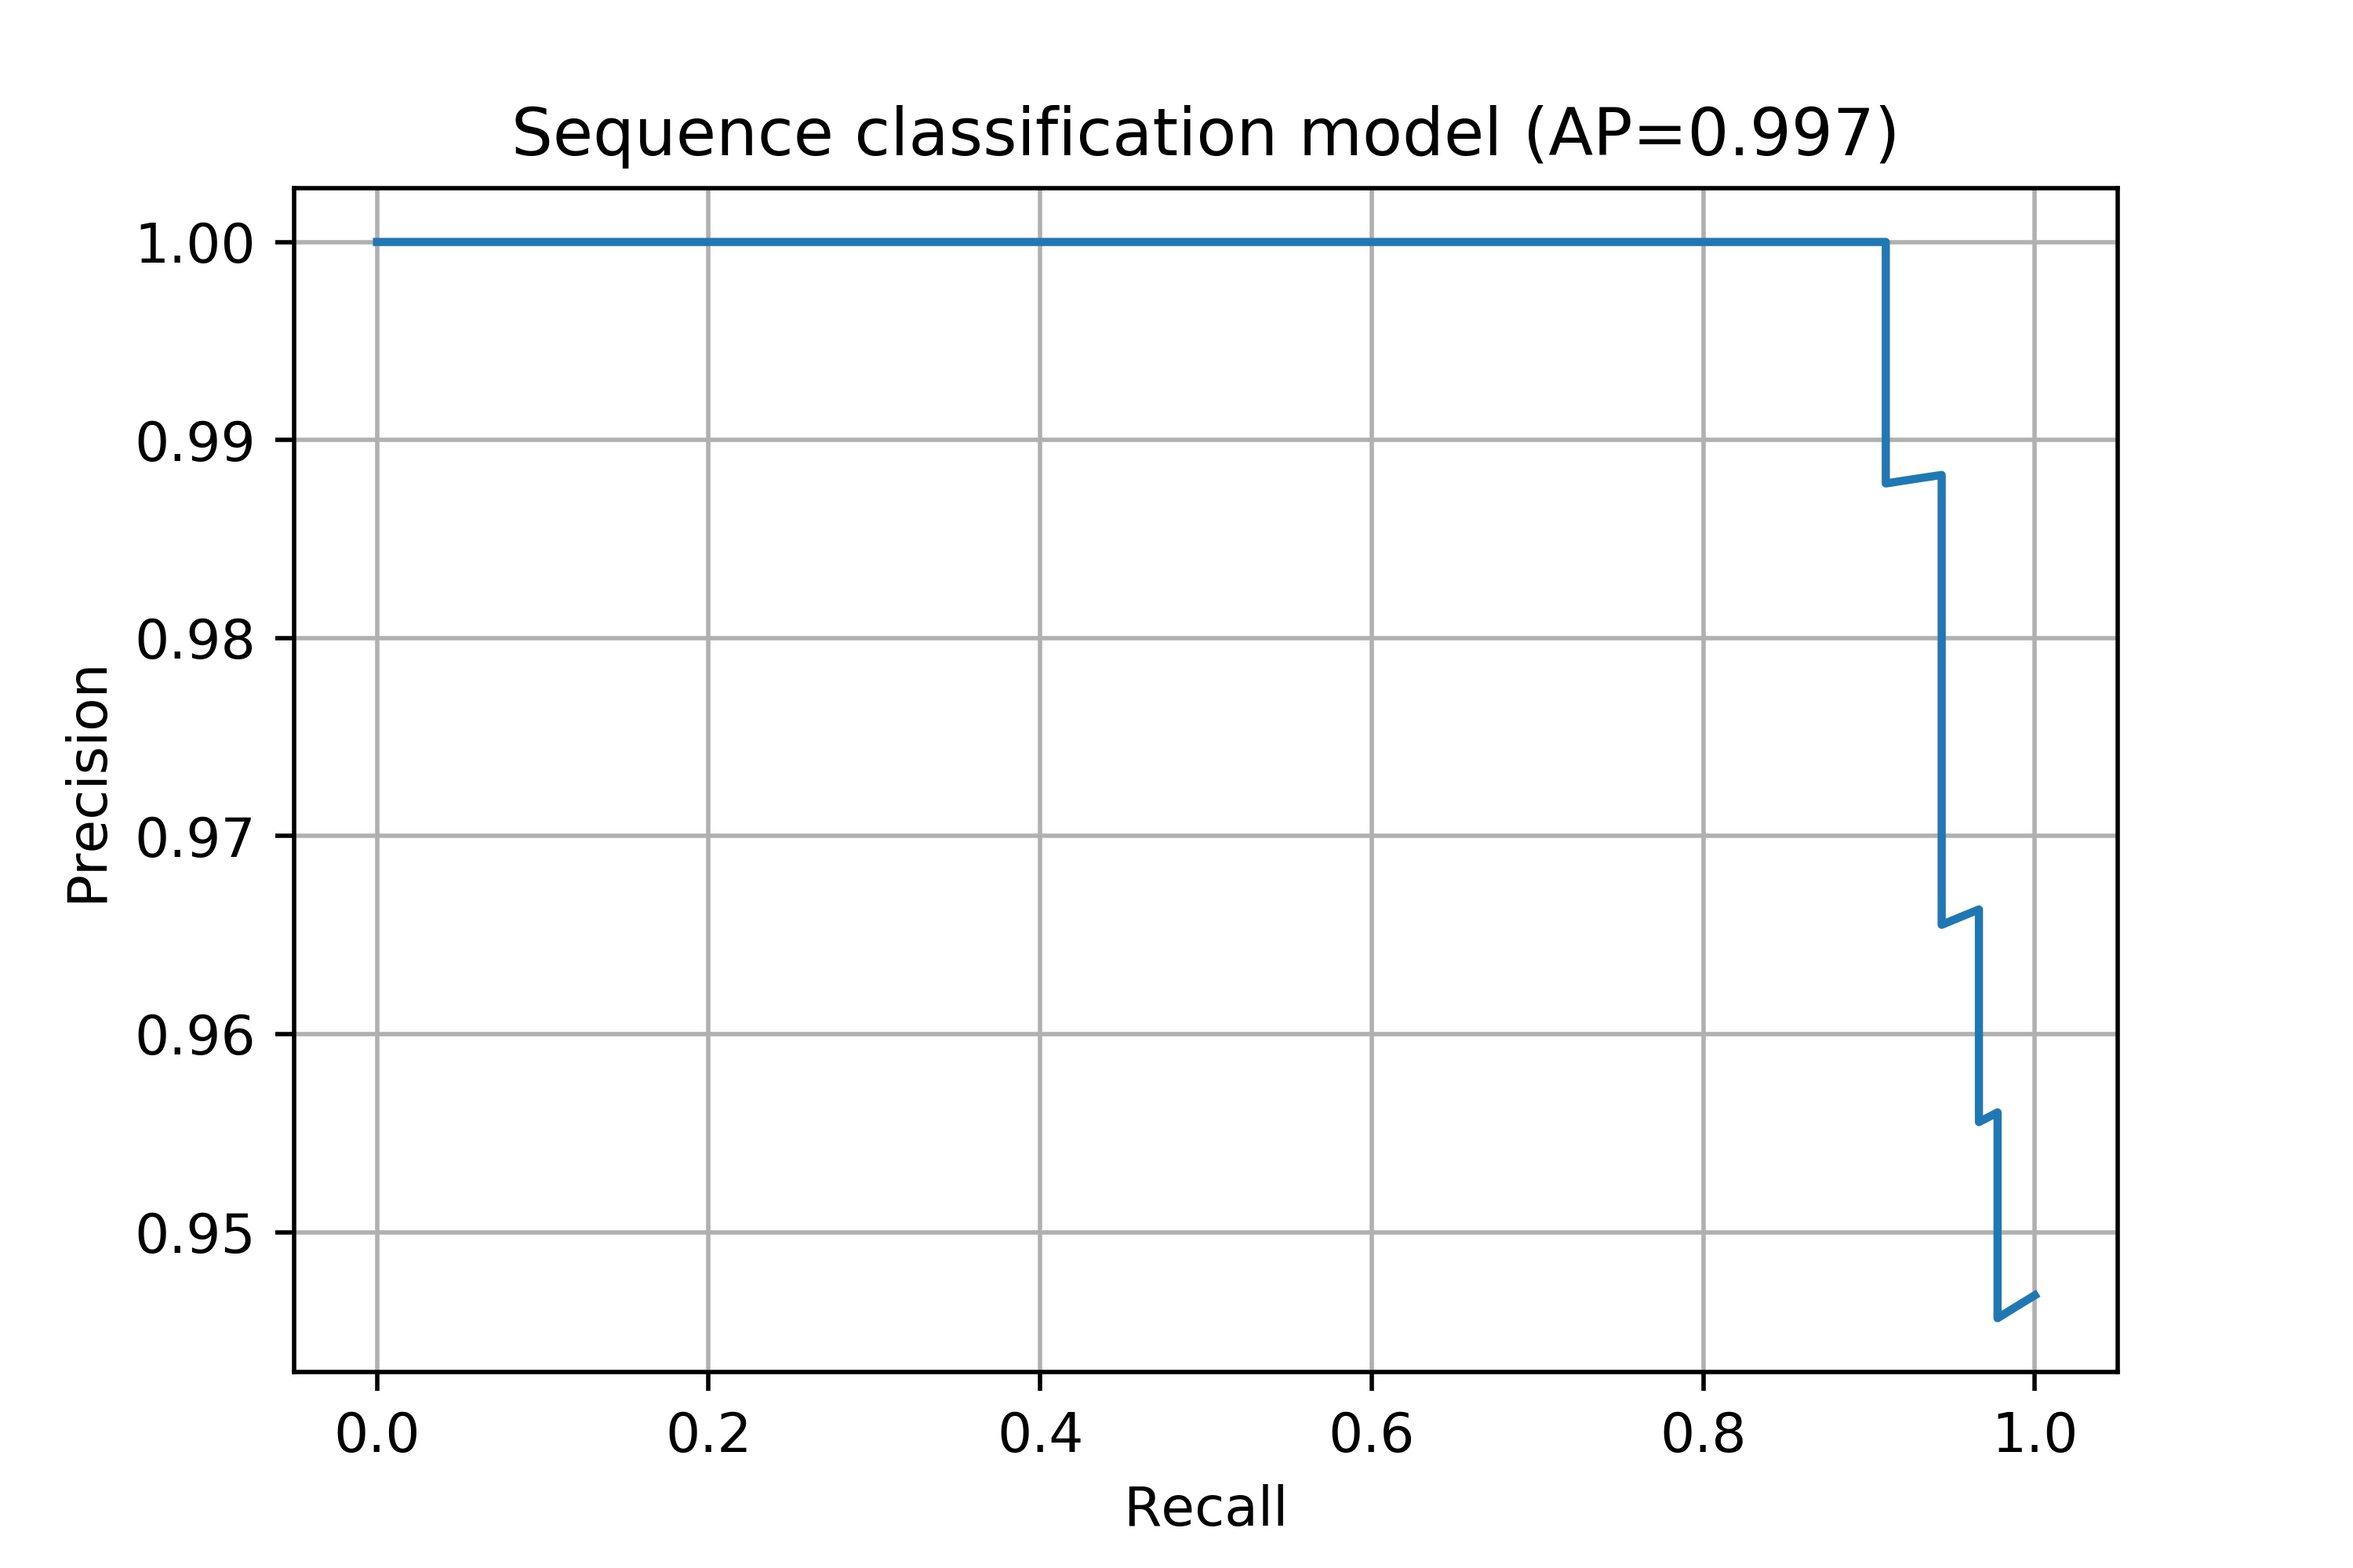
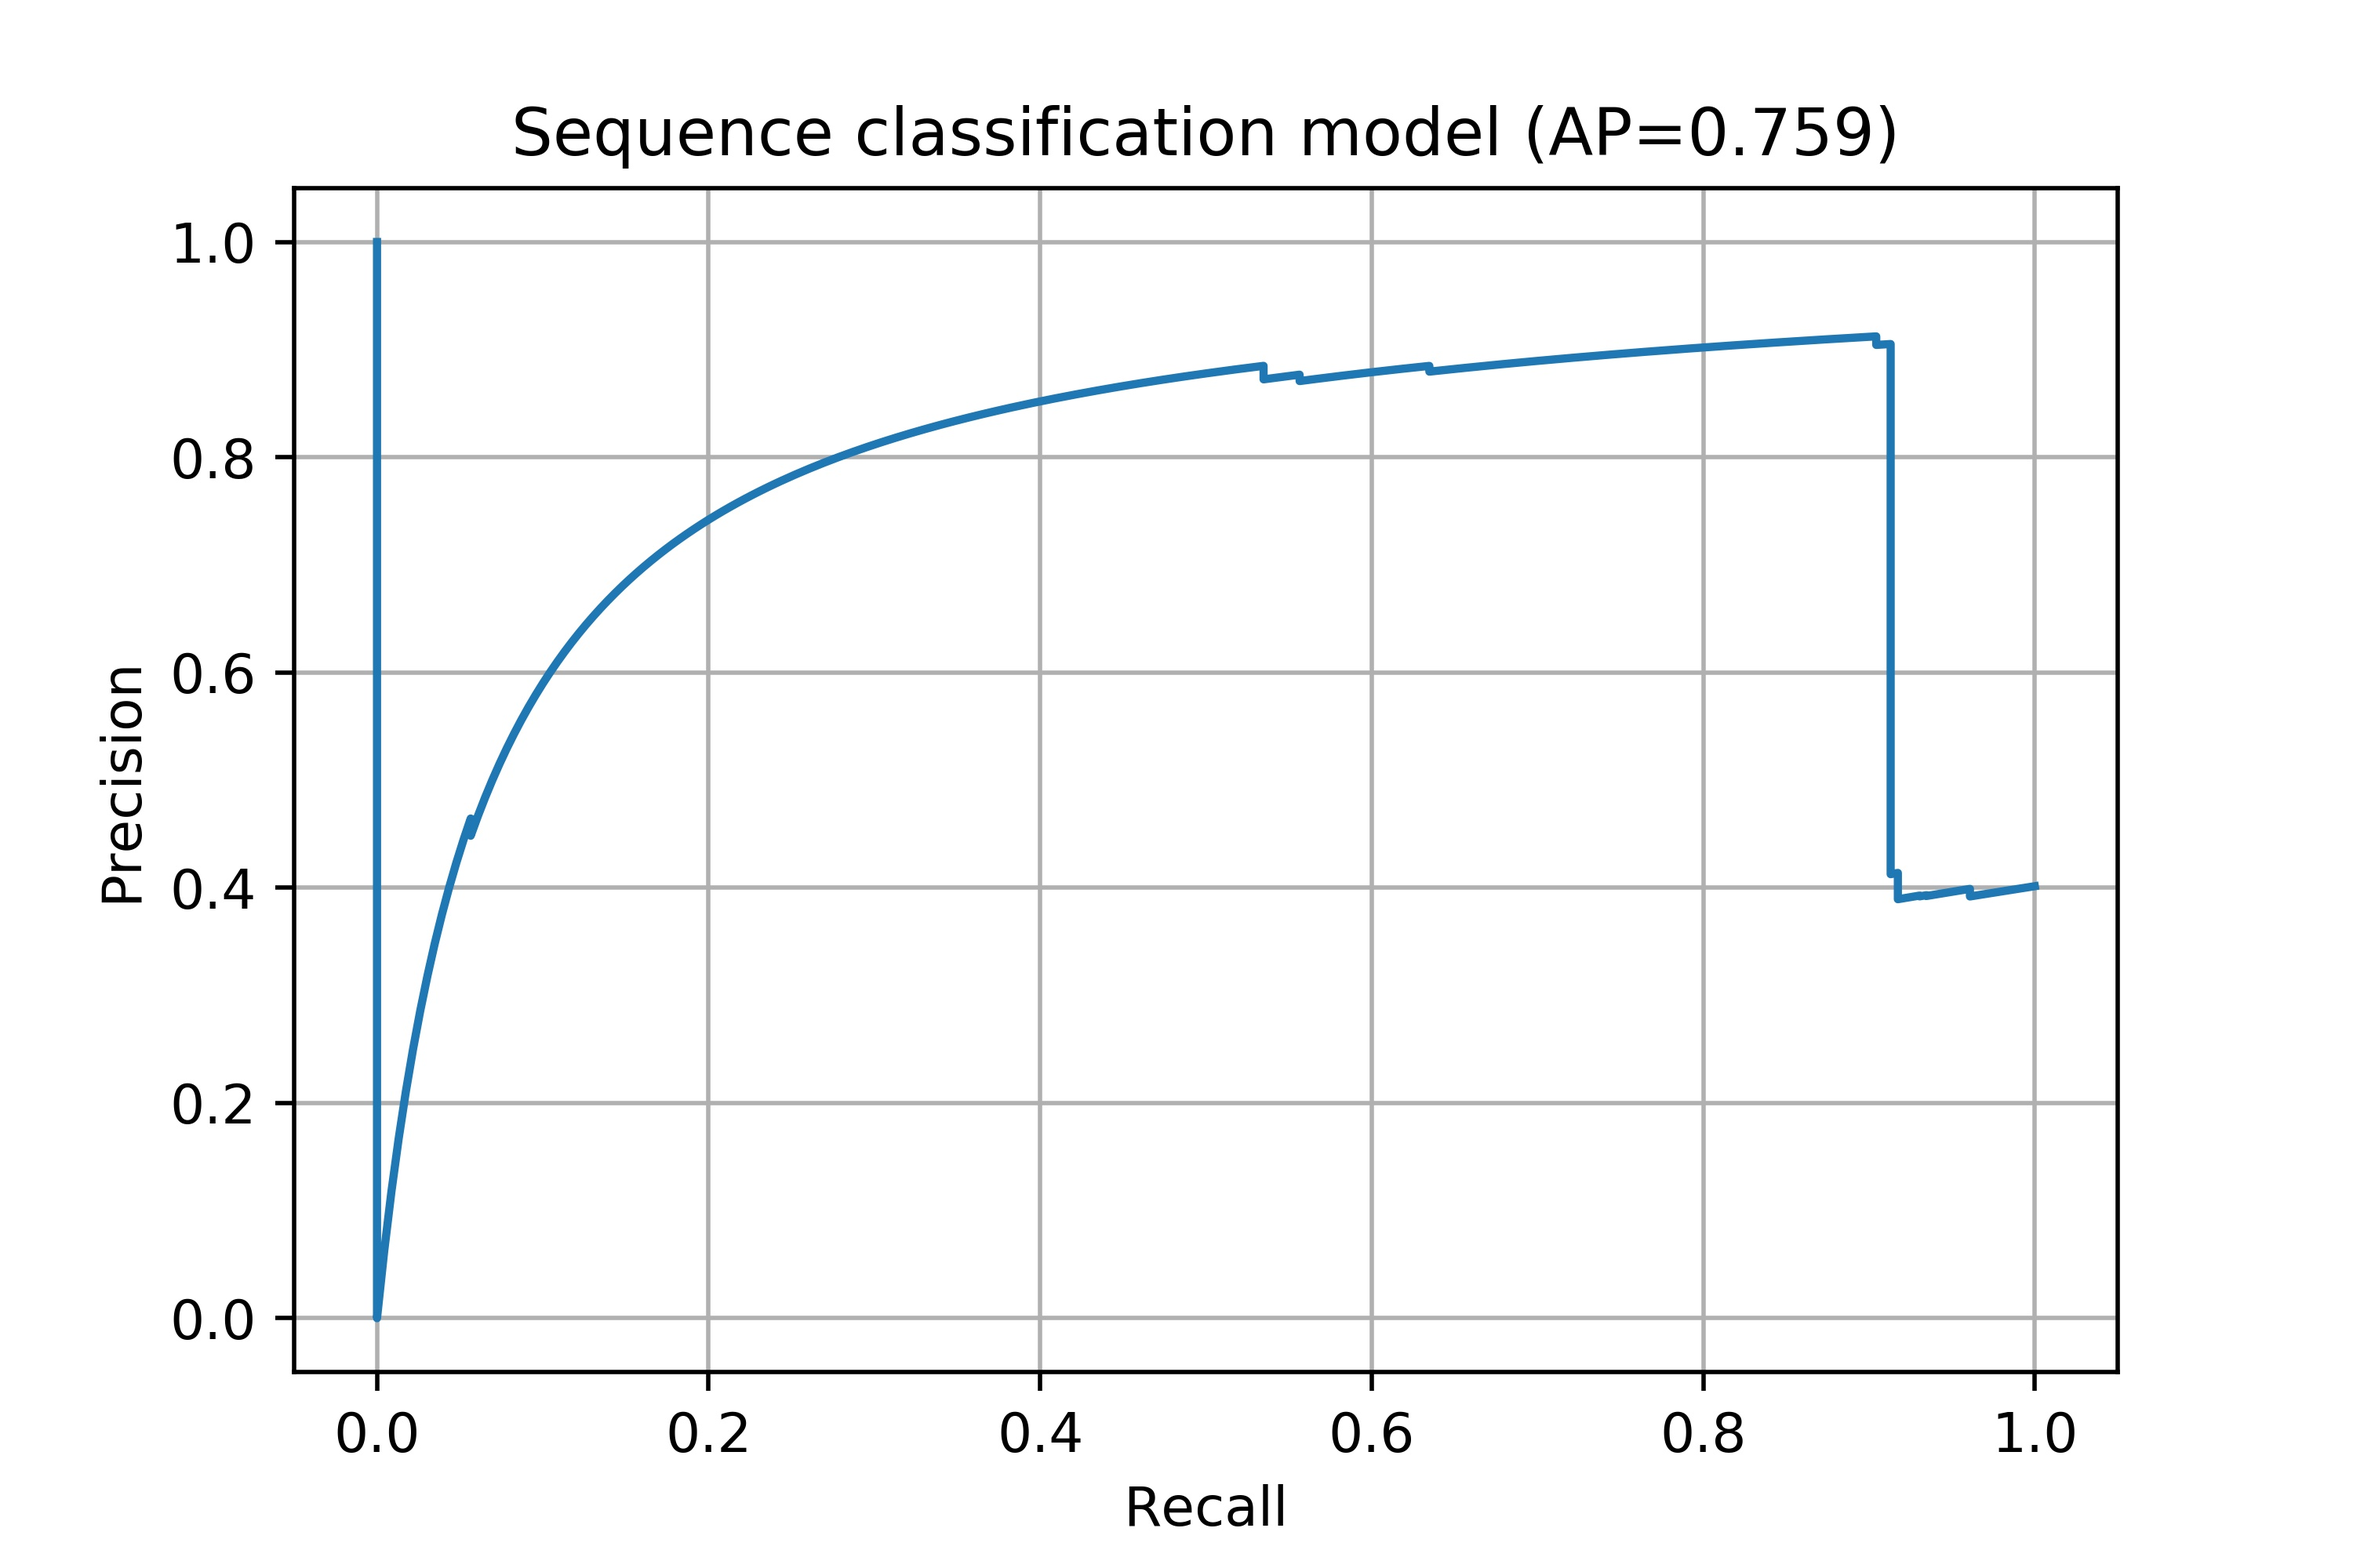
Create analysis of kuzmin model

diff --git a/kuzmin analysis/kuzmin_model.py b/kuzmin analysis/kuzmin_model.py
@@ -1,0 +1,218 @@
+# -*- coding: utf-8 -*-
+"""
+Created on Fri Feb 12 08:24:31 2021
+
+@author: NBOLLIG
+"""
+
+# =============================================================================
+# Create Kuzmin dataset
+# =============================================================================
+from Bio import SeqIO # some BioPython that will come in handy
+
+# Read the fasta-file and create a dictionary of its protein sequences
+
+input_file_name = "Sequences.fasta"
+
+# The fasta defline (name of a sequence) has the following format:
+# Strain Name | Accession Number | Host Species | Virus Species) 
+sequences_dictionary = {sequence.id : sequence.seq for sequence in SeqIO.parse(input_file_name,'fasta')}
+
+# From the newly formed sequences_dictionary, we create 3 lists:
+# a list of deflines,
+# a list of sequences,
+# and a list of target values
+
+# We want to mark all sequences that belong to the viruses that can infect humans as 1 (i.e., target = 1), 
+# all other sequences as 0 (i.e., target = 0)
+
+human_virus_species_set =  {'Human_coronavirus_NL63', 'Betacoronavirus_1', 
+                            'Human_coronavirus_HKU1', 'Severe_acute_respiratory_syndrome_related_coronavirus', 
+                            'SARS_CoV_2', 'Human_coronavirus_229E', 'Middle_East_respiratory_syndrome_coronavirus'}
+
+deflines = [entry for entry in sequences_dictionary.keys()]             # create a list of deflines
+protein_sequences = [entry for entry in sequences_dictionary.values()]  # create a list of protein sequences 
+
+
+# we assign 1 iff a virus species is one from the 7 human-infective
+
+targets = [0]*len(deflines)
+for i, defline in enumerate(deflines):
+    for virus_species in human_virus_species_set:
+        if virus_species in defline:
+            targets[i] = 1
+
+# We create a class fasta_sequence so that we would be able to use the sequence data easily 
+
+class fasta_sequence:
+    def __init__(self, defline, sequence, target, type_of_encoding = "onehot"):
+        
+        # we read the input data
+        
+        self.defline = defline
+        self.sequence = sequence
+        self.target = target
+        
+        # and create more descriptions of the input data
+        
+        # report the strain name (the 1st fiel of the defline)
+        self.strain_name = defline.split("|")[0]
+        # report the accession number (the 2nd fiel of the defline)
+        self.accession_number = defline.split("|")[1]        
+        # report the host species (the 3rd fiel of the defline)
+        self.host_species = defline.split("|")[2]    
+        # report the virus species (the 4th fiel of the defline)
+        self.virus_species = defline.split("|")[3]
+        
+        
+# We convert a string with the alphabet = 'ABCDEFGHIJKLMNPQRSTUVWXYZ-' 
+# into either a list mapping chars to integers (called integer encoding),
+# or a sparce list. In the latter, each amino acid is represented as an one-hot vector of length 25, 
+# where each position, except one, is set to 0.  E.g., alanine is encoded as 10000000000000000000, 
+# cystine is encoded as 01000000000000000000
+# See the full table above.
+# Symbol '-' is encoded as a zero-vector.
+
+        def encoding(sequence, type_of_encoding):
+
+            # define universe of possible input values
+            alphabet = 'ABCDEFGHIJKLMNPQRSTUVWXYZ-'
+            # define a mapping of chars to integers
+            char_to_int = dict((c, i) for i, c in enumerate(alphabet))
+
+
+            # integer encoding
+            integer_encoded = [char_to_int[char] for char in sequence]
+
+            # one-hot encoding
+            onehot_encoded = list()
+            for value in integer_encoded:
+                letter = [0 for _ in range(len(alphabet)-1)]
+                if value != len(alphabet)-1:
+                    letter[value] = 1
+                onehot_encoded.append(letter)
+            flat_list = [item for sublist in onehot_encoded for item in sublist]
+
+            if type_of_encoding == "onehot":
+                return flat_list
+            else:
+                return integer_encoded
+            
+        #  we use the encoding function to create a new attribute for the sequence -- its encoding        
+        self.encoded = encoding(sequence, type_of_encoding)
+
+# we create a list of sequences as objects of the class fasta_sequence
+# all sequences are encoded with one-hot encoding (it is the default option of the constructor of the class)
+sequences = []
+for i in range(0, len(deflines)):
+    current_sequence = fasta_sequence(deflines[i],protein_sequences[i],targets[i])
+    sequences.append(current_sequence)
+
+# for a list of sequences, returns a list of encoded sequences and a list of targets
+
+def EncodeAndTarget(list_of_sequences):
+    # encoding the sequences
+    list_of_encoded_sequences = [entry.encoded for entry in list_of_sequences]
+    # creating lists of targets
+    list_of_targets = [entry.target for entry in list_of_sequences]
+    list_of_species = [entry.virus_species for entry in list_of_sequences]
+    return list_of_encoded_sequences, list_of_targets, list_of_species
+
+# =============================================================================
+# Withold SARS CoV 2 sequences
+# =============================================================================
+import numpy as np
+
+training_sequences = []
+SARS2_sequences = []
+
+for entry in sequences:
+    if entry.virus_species == 'SARS_CoV_2' and entry.host_species == 'Human':
+        SARS2_sequences.append(entry)
+    elif entry.virus_species == 'SARS_CoV_2':
+        bat_sequence = entry
+        training_sequences.append(entry) # If the bat sequence should be in the training set
+    else:
+        training_sequences.append(entry)
+
+# =============================================================================
+# Form and split data set
+# =============================================================================
+N_POS = 2396
+N_CHAR = 25
+
+
+X, y, species = EncodeAndTarget(training_sequences)
+X = np.array(X).reshape((-1, N_POS, N_CHAR))
+y = np.array(y)
+
+from sklearn.model_selection import GroupKFold
+group_kfold = GroupKFold(n_splits=2)
+
+for train_index, test_index in group_kfold.split(X, y, species):
+    X_train, X_test = X[train_index], X[test_index]
+    y_train, y_test = y[train_index], y[test_index]
+
+# =============================================================================
+# Train model
+# =============================================================================
+
+from keras.models import Sequential
+from keras.layers import Dense
+from keras.layers import Flatten
+import numpy as np
+
+# define the  model
+EPOCHS = 8
+N_POS = 2396
+N_CHAR = 25
+model = Sequential()
+model.add(Flatten(input_shape=(N_POS, N_CHAR)))
+model.add(Dense(1, activation='sigmoid', input_shape=(N_POS * N_CHAR,)))
+model.compile(loss='binary_crossentropy', optimizer='adam', metrics=['accuracy'])
+
+# Train model
+model.fit(X_train, y_train, epochs=EPOCHS, batch_size=64, verbose=1)
+
+# =============================================================================
+# Evaluate model
+# =============================================================================
+
+# PR curve
+from sklearn.metrics import precision_recall_curve
+from sklearn.metrics import average_precision_score
+import matplotlib.pyplot as plt
+
+y_proba = model.predict_proba(X_test)
+precision, recall, thresholds = precision_recall_curve(y_test, y_proba)
+ap = average_precision_score(y_test, y_proba)
+fig, ax = plt.subplots()
+ax.plot(recall, precision)
+ax.set(xlabel='Recall', ylabel='Precision', title='Sequence classification model (AP=%.3f)' % (ap,))
+ax.grid()
+fig.savefig("pr_curve.jpg", dpi=500)
+plt.show()
+
+# ROC curve
+from sklearn.metrics import roc_curve
+from sklearn.metrics import roc_auc_score
+
+fpr, tpr, thresholds = roc_curve(y_test, y_proba)
+auc = roc_auc_score(y_test, y_proba)
+fig, ax = plt.subplots()
+ax.plot(fpr, tpr)
+ax.set(xlabel='False positive rate', ylabel='True positive rate', title='Sequence classification model (AUC=%.3f)' % (auc,))
+ax.grid()
+fig.savefig("roc_curve.jpg", dpi=500)
+plt.show()
+
+# Evaluate on train set
+result = {}
+_, train_accuracy = model.evaluate(X_train, y_train, verbose=0)
+result['model_train_accuracy'] = train_accuracy
+print('Train Accuracy: %.2f' % (train_accuracy*100))
+
+# Evaluate on validation set
+_, test_accuracy = model.evaluate(X_test, y_test, verbose=0)
+result['model_test_accuracy'] = test_accuracy
+print('Test Accuracy: %.2f' % (test_accuracy*100))
